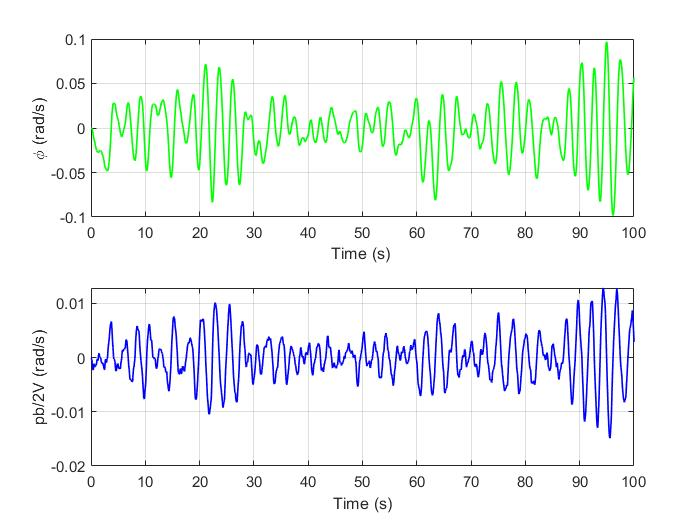
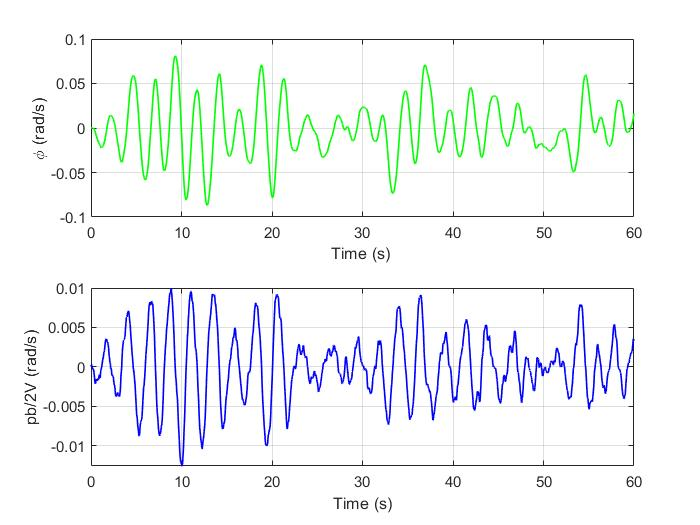
second

diff --git a/Ch_2_time_response.m b/Ch_2_time_response.m
@@ -1,4 +1,4 @@
-dt = 0.05; T  = 100; 
+dt = 0.005; T  = 60; 
 t = [0:dt:T]; N = length(t);
 nn = zeros(1,N);
 
@@ -24,21 +24,24 @@ D = [0 0 0 0 0;
      0 0 0 0 0];
 
 % RESPONSE to u_g
-y1 = lsim(A2,B,C,D,u1,t);
+[y1,t,x1] = lsim(sys_controlled,u1,t);
 % RESPONSE to v_g
-y2 = lsim(A2,B,C,D,u2,t);
+[y2,t,x2] = lsim(sys_controlled,u2,t);
 % RESPONSE to w_g
-y3 = lsim(A2,B,C,D,u3,t);
+[y3,t,x3] = lsim(sys_controlled,u3,t);
 % RESPONSE to all together (linear system!)
 yt = y1+y2+y3;
-a_y = V*(yt(:,1)+yt(:,2));
-y1r = lsim(Ar,Br,Cr,Dr,u1,t);
+xt = x1+x2+x3;
+a_y =  V*(xt(:,1) + (2*V/b)*yt(:,4));
+ 
+[y1r,t,x1r] = lsim(sys_reduced,u1,t);
 % RESPONSE to v_g
-y2r = lsim(Ar,Br,Cr,Dr,u2,t);
+[y2r,t,x2r] = lsim(sys_reduced,u2,t);
 % RESPONSE to w_g
-y3r = lsim(Ar,Br,Cr,Dr,u3,t);
+[y3r,t,x3r] = lsim(sys_reduced,u3,t);
 ytr = y1r+y2r+y3r;
-a_y_r = V*(ytr(:,1)+ytr(:,2));
+xtr = x1r+x2r+x3r;
+a_y_r = V*(ytr(:,1)+(2*V/b) *xtr(:,2));
 % PLOT RESULTS
 figure(1)
 subplot(2,1,1);
@@ -75,7 +78,7 @@ xlabel('Time (s)')
 ylabel('pb/2V (rad/s)')
 grid on
 figure(4)
-subplot(2,1,1);
+subplot(2,1,1)
 plot(t,a_y,'g','LineWidth',1)
 xlabel('Time (s) ')
 ylabel('a_y_c (m/s)')

diff --git a/Ch_4_variance.m b/Ch_4_variance.m
@@ -10,7 +10,17 @@ var__ay_c = sum(Sxx(:,5)'.*dw)/pi
 var__beta_r = sum(Sxx_r(:,1)'.*dw)/pi
 var__rbv_r = sum(Sxx_r(:,2)'.*dw)/pi
 var__ay_r = sum(Sxx_r(:,3)'.*dw)/pi
-
+%% var.m
+vbeta_c  = var(yt(:,1))
+vphi_c  = var(yt(:,2))
+vpbv_c  = var(yt(:,3))
+vrbv_c  = var(yt(:,4))
+vay_c  = var(a_y)
+%Reduced model
+vbeta_r  = var(ytr(:,1))
+vrbv_r  = var(ytr(:,2))
+vay_r  = var(a_y_r)
+    
 %% lyapunov
 
 
@@ -27,14 +37,4 @@ Lr   = lyap(Ar,Br*W*Br');
 Lr   = Lr(1:2,1:2);
 var_L_r = diag(Lr)'
 
-%% var.m
-vbeta_c  = var(yt(:,1))
-vphi_c  = var(yt(:,2))
-vpbv_c  = var(yt(:,3))
-vrbv_c  = var(yt(:,4))
-vay_c  = var(a_y)
-%Reduced model
-vbeta_r  = var(ytr(:,1))
-vrbv_r  = var(ytr(:,2))
-vay_r  = var(a_y_r)
-    
+

diff --git a/Ch_1_Stability_analysis.m b/Ch_1_Stability_analysis.m
@@ -149,9 +149,9 @@ Br = [0  0   0    0    0;
 Cr = eye (8,8);
 Dr = zeros(8,5); 
 eig_Ar = eig(Ar)
-sys_reduced_c = ss(Ar,Br,Cr,Dr);
+sys_reduced = ss(Ar,Br,Cr,Dr);
 figure(2)
-pzmap(sys_reduced_c)
+pzmap(sys_reduced)
 grid on
 Kphi = -0.2;
 K    = [0 Kphi 0 0  0 0  0 0  0 0];
